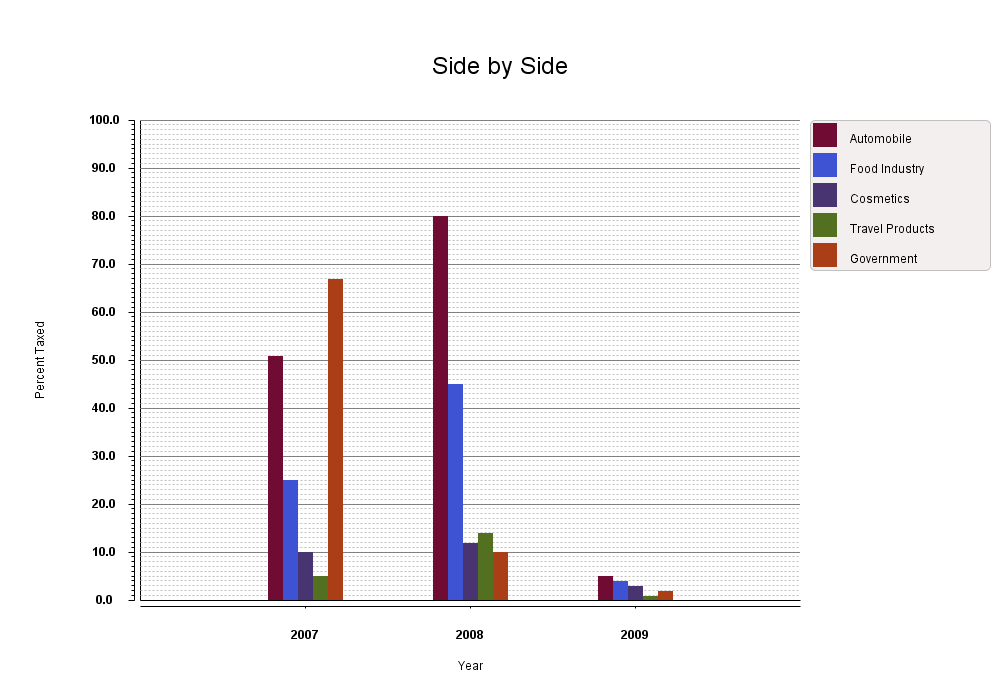
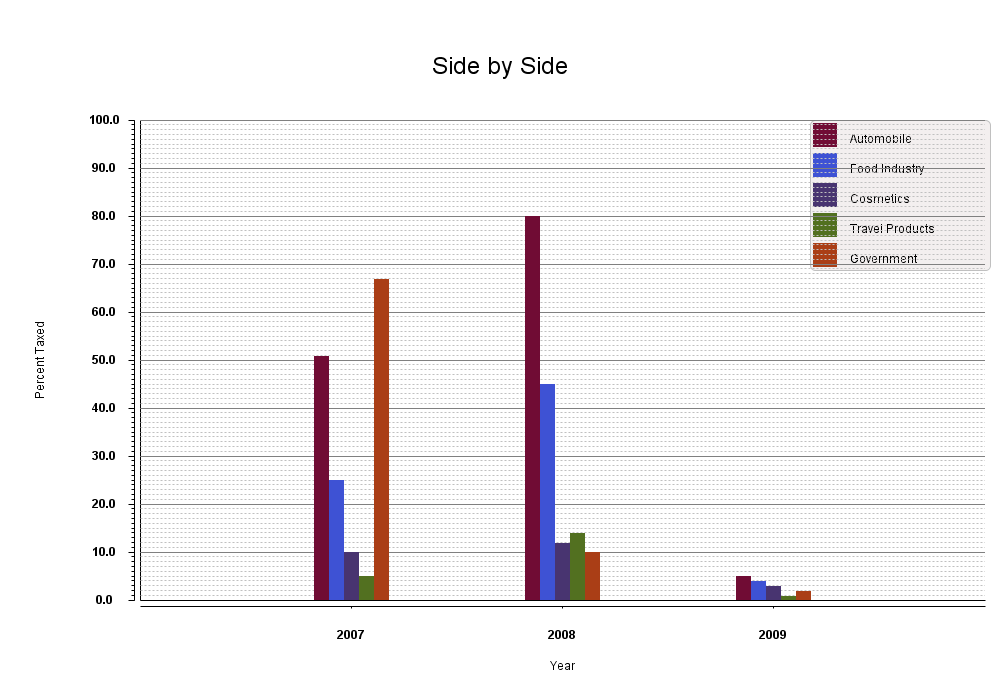
fix time point bug

diff --git a/src/main/java/com/bluewalrus/chart/draw/plotter/ChartPlotter.java b/src/main/java/com/bluewalrus/chart/draw/plotter/ChartPlotter.java
@@ -12,6 +12,7 @@ import com.bluewalrus.chart.XYFactor;
 import com.bluewalrus.chart.axis.XAxis;
 import com.bluewalrus.chart.axis.YAxis;
 import com.bluewalrus.chart.datapoint.DataPoint;
+import com.bluewalrus.chart.datapoint.ValueType;
 import com.bluewalrus.chart.draw.GridLine;
 import com.bluewalrus.chart.draw.point.UIPointXY;
 import com.bluewalrus.scaling.TimeSeriesAxisScaling;
@@ -99,7 +100,20 @@ public class ChartPlotter {
             DataPoint dataPoint, 
             XYChart chart, int pixBtnFirst2Pts) {
 		
-        int x = (int) ((dataPoint.x * xyFactor.xFactor) + xShift + xyFactor.xZeroOffsetInPixel);
+		
+		System.out.println("Pulling back (or pushing by this offset) = " + xyFactor.xZeroOffsetInPixel);
+		System.out.println("dataPoint.x * xyFactor.xFactor = " + (dataPoint.x * xyFactor.xFactor));
+		System.out.println("xShift = " + xShift);
+		System.out.println("");
+		
+		
+		int x = 0;
+		if (dataPoint.valueType == ValueType.X_TIME) {
+	        x = (int) ((dataPoint.xDate.getTime() * xyFactor.xFactor) + xShift + xyFactor.xZeroOffsetInPixel);
+		}else {
+	        x = (int) ((dataPoint.x * xyFactor.xFactor) + xShift + xyFactor.xZeroOffsetInPixel);
+		}
+		
         int y = (int) (yShift - (int) (dataPoint.y * xyFactor.yFactor) - xyFactor.yZeroOffsetInPixel);
 
         //hack TODO 
@@ -209,25 +223,31 @@ public class ChartPlotter {
         return new XYFactor(xFactor, yfactor);
 	}
 
-
-
-	
+	 /**
+	  * TODO this method is completely wrong
+	  * @param chart
+	  * @param yAxis
+	  * @return
+	  */
 	protected double getYZeroOffsetInPixel(XYChart chart, YAxis yAxis) {
 		
-//		if (yAxis.axisScaling instanceof TimeSeriesAxisScalingY) {
-//			throw new RuntimeException("TODO");
-//
-//			
-//		}else {
-	    	double yMax = yAxis.axisScaling.getMaxValue();
-	    	double yMin = yAxis.axisScaling.getMinValue();
-	    	
-	    	return (double) ((-yMin / (yMax - yMin)) * chart.heightChart);
-//		}
+    	double yMax = yAxis.axisScaling.getMaxValue();
+    	double yMin = yAxis.axisScaling.getMinValue();
+    	
+    	return (double) ((-yMin / (yMax - yMin)) * chart.heightChart);
 	}
 
 	
 	/**
+	 * I 
+	 * DO
+	 * NOT 
+	 * UNDERSTAND
+	 * THIS METHOD
+	 * 
+	 * TODO this method is completely wrong
+	 * 
+	 * Negative value : 
 	 * 
 	 * @param chart
 	 * @param xAxis
@@ -236,13 +256,19 @@ public class ChartPlotter {
 
 	protected double getXZeroOffsetInPixel(XYChart chart, XAxis xAxis) {
 		
+		double offset = -1;
+		
 		if (xAxis.axisScaling instanceof TimeSeriesAxisScaling) {
 	    	long xMax = ((TimeSeriesAxisScaling)xAxis.axisScaling).dateEnd.getTime();
 	    	long xMin = ((TimeSeriesAxisScaling)xAxis.axisScaling).dateStart.getTime();
 	    	
-	    	double diffX = xMax - xMin;
+	    	long diffX = xMax - xMin;
 	    	
-			return (double) ((-xMin / (double) diffX) * chart.widthChart);
+	    	double v = (-xMin / (double) diffX);
+	    	
+	    	System.out.println("v = " + v);
+	    	
+	    	offset =  (double) (v * chart.widthChart);
 	    	
 		}else {
 
@@ -250,8 +276,14 @@ public class ChartPlotter {
 	    	double xMin = xAxis.axisScaling.getMinValue();
 	    	
 	    	double diffX = xMax - xMin;
-			return (double) ((-xMin / (double) diffX) * chart.widthChart);
+	    	
+	    	double v = (double) ((-xMin / (double) diffX) * chart.widthChart);
+	    	
+	    	offset =   v;
 		}
+		System.out.println("offset = " + offset);
+		
+		return offset;
 	}
     
 }

diff --git a/src/test/java/com/bluewalrus/main/test/timeseries/TestDataTimeSeries_MonthDay.java b/src/test/java/com/bluewalrus/main/test/timeseries/TestDataTimeSeries_MonthDay.java
@@ -33,7 +33,7 @@ public class TestDataTimeSeries_MonthDay extends ChartTester {
 		
 		Date startDate = df.parse("2001-01-03 10-00-00"); //3rd jan
 //		Date endDate = df.parse("2001-03-12 05-33-00"); //12th march
-		Date endDate = df.parse("2001-09-7 05-33-00"); //12th march
+		Date endDate = df.parse("2001-04-7 05-33-00"); //12th march
 		
 		
 		String time = "2001-03-01 00-33-00";                              
@@ -42,16 +42,16 @@ public class TestDataTimeSeries_MonthDay extends ChartTester {
 		time = "2001-04-01 00-33-00";                                                
 		Date dt5 = df.parse(time);                                      
 
-		time = "2001-07-20 05-33-00";                              
-		Date dt6 = df.parse(time);                                      
+//		time = "2001-07-20 05-33-00";                              
+//		Date dt6 = df.parse(time);                                      
 		
 		
 		ArrayList<DataPoint> values = new ArrayList<DataPoint>();
 		values.add(new DataPoint(dt4, 5));
 		values.add(new DataPoint(dt5, 8));
-		values.add(new DataPoint(dt6, 14));
+//		values.add(new DataPoint(dt6, 14));
 
-		XYDataSeries series = new XYDataSeries(new UIPointSquare(Color.BLUE), new GridLine(Color.BLUE), "Something Blue");
+		XYDataSeries series = new XYDataSeries(new UIPointSquare(Color.BLUE,4), new GridLine(Color.BLUE), "Something Blue");
 		series.dataPoints = values;
 
 		SimpleDateFormat monthFormat = new SimpleDateFormat("MMM");
@@ -76,18 +76,14 @@ public class TestDataTimeSeries_MonthDay extends ChartTester {
 						timeInt2, 
 						null), "Time Series 1"); 
 
-		XYChart lineChart = new XYChart(values, "Time Series 1", "X", "Y"); //yAxis, xAxis);
+		XYChart lineChart = new XYChart(series, "Time Series 1", "X", "Y"); //yAxis, xAxis);
 		lineChart.xAxis = xAxis;
-		lineChart.setTitle("Month Day Time Series (3rd Jan to 12th March)");
-		
+		lineChart.setTitle("Month Day Time Series (3rd Jan - 12th March)");
 		
 		timeInt1.styling.intervalFont =  new Font("Blackadder ITC", Font.BOLD, 16);
 		timeInt2.styling.intervalFont =  new Font("Blackadder ITC", Font.PLAIN, 12);
 		
 		timeInt1.styling.graphFill =  new GridFill(Color.WHITE, new Color(224,235,235), false);
-		
-		
-		
 
 		return lineChart;
 	}

diff --git a/src/main/java/com/bluewalrus/chart/XYChart.java b/src/main/java/com/bluewalrus/chart/XYChart.java
@@ -476,7 +476,6 @@ public class XYChart extends Chart implements Legendable, MouseMotionListener {
 	 * @param title
 	 */
 	private void initialiseScaling(ArrayList<XYDataSeries> xySeriesList) {
-
 		XAxis xAxis = null;
 		YAxis yAxis = null;
 		YAxis yAxis2 = null;
@@ -503,7 +502,6 @@ public class XYChart extends Chart implements Legendable, MouseMotionListener {
 		 * Initialise Y2
 		 */
 		if (isYAxis2) {
-			
 			yAxis2 = initialiseScalingY_numerical(this.dataY2);
 			yAxis2.axisScaling.setOrientation(Orientation.Y2);
 		}
@@ -511,8 +509,6 @@ public class XYChart extends Chart implements Legendable, MouseMotionListener {
 		this.xAxis = xAxis;
 		this.yAxis = yAxis;
 		this.yAxis2 = yAxis2;
-		
-		
 	}
 
 
@@ -768,11 +764,14 @@ public class XYChart extends Chart implements Legendable, MouseMotionListener {
 		ArrayList<Category> categories = new ArrayList<Category>();
 
 		//only one series. no need for legend TODO put this logic back in!!
-//		if (data.size() == 1) {
-//			return;
-//		}
+		if (data.size() == 1) {
+			return;
+		}
 		
-//		if (data.)
+		this.rightOffset = 200; //TODO why do have to put in offset here??
+		
+		
+		
 
 		for (XYDataSeries series : data) {
 
@@ -784,8 +783,7 @@ public class XYChart extends Chart implements Legendable, MouseMotionListener {
 			} 
 			else if(series.type == XYDataSeriesType.MULTI_BAR){
 				
-				this.rightOffset = 200; //TODO why do have to put in offset here??
-				
+
 				
 				DataPointMultiBar mb = (DataPointMultiBar)series.dataPoints.get(0);
 		        ArrayList<DataPointBar> dps = mb.bars;
@@ -802,10 +800,7 @@ public class XYChart extends Chart implements Legendable, MouseMotionListener {
 						series.line);
 				categories.add(category);
 			}
-			
-			
 		}
-		
 		
 		if (isYAxis2) {
 	        categories = new ArrayList<Category>();

diff --git a/src/test/java/com/bluewalrus/main/test/xy/TestDataXY_CandlePlot.java b/src/test/java/com/bluewalrus/main/test/xy/TestDataXY_CandlePlot.java
@@ -21,22 +21,13 @@ public class TestDataXY_CandlePlot extends ChartTester {
 		
 		ChartTester t = new TestDataXY_CandlePlot();
 		t.testChart(t.getChart());
-		
-//		getChart();
 	}
 
-	
-
-
-
 	public XYChart getChart() {
-
-		// TEST_DATA_START
 
 		ArrayList<XYDataSeries> xySeriesList = new ArrayList<XYDataSeries>();
 
 		ArrayList<DataPoint> values = new ArrayList<DataPoint>();
-//		values.add(new DataPointBoxPlot(5, 53, 15, 26, 37, 49, 70));
 
 		values.add(new DataPointCandleStick(10, 80, 70, 60, 50, true));
 		values.add(new DataPointCandleStick(20, 80, 75, 50, 15, true));
@@ -49,13 +40,6 @@ public class TestDataXY_CandlePlot extends ChartTester {
 		values.add(new DataPointCandleStick(90, 80, 75, 50, 25, true));
 		values.add(new DataPointCandleStick(100, 80, 70, 60, 50, true));
 		values.add(new DataPointCandleStick(110, 80, 75, 50, 15, true));
-		
-		
-//		values.add(new DataPointCandleStick(40, 54, 40, 46, 73, true));
-//		values.add(new DataPointCandleStick(50, 30, 34, 39, 72, false));
-//		values.add(new DataPointCandleStick(60, 45, 36, 45, 58, true));
-//		values.add(new DataPointCandleStick(70, 47, 41, 45, 49, false));
-//		values.add(new DataPointCandleStick(80, 70, 68, 64, 50, false));
 
 		XYDataSeries series = new XYDataSeries(values, new UIPointCandleStick(
 				new Color(181, 197, 207, 100)), null, "1994");
@@ -68,12 +52,10 @@ public class TestDataXY_CandlePlot extends ChartTester {
 		XYChart chart = new XYChart(xySeriesList, yAxis, xAxis);
 
 		chart.setSize(1000, 500);
-		chart.rightOffset = 200;
 
 		chart.setTitleFont(new Font("Ariel", Font.PLAIN, 24));
-		chart.setTitle("Box Plot");
+		chart.setTitle("Candle Plot");
 
 		return chart;
 	}
-
 }

diff --git a/src/test/java/com/bluewalrus/main/test/multibar/TestDataBar_MultiBar_SideBySide.java b/src/test/java/com/bluewalrus/main/test/multibar/TestDataBar_MultiBar_SideBySide.java
@@ -69,7 +69,7 @@ public class TestDataBar_MultiBar_SideBySide extends ChartTester {
         XYChart chart = new XYChart("Side by Side", "Year", "Percent Taxed", xySeriesList);
         
         
-        chart.rightOffset = 200;
+//        chart.rightOffset = 200;
         chart.yAxis.setMinValue(0);
         chart.yAxis.setMaxValue(100);
         

diff --git a/src/test/java/com/bluewalrus/main/test/multibar/TestDataBar_MultiBar_Stacked.java b/src/test/java/com/bluewalrus/main/test/multibar/TestDataBar_MultiBar_Stacked.java
@@ -69,7 +69,7 @@ public class TestDataBar_MultiBar_Stacked extends ChartTester {
         xySeriesList.add(series);
         
         XYChart chart = new XYChart("Stacked", "Year", "y", xySeriesList);
-        chart.rightOffset = 200;
+//        chart.rightOffset = 200;
         
         return chart;
     }

diff --git a/src/test/java/com/bluewalrus/main/test/xy/TestDataXY_Boxplot.java b/src/test/java/com/bluewalrus/main/test/xy/TestDataXY_Boxplot.java
@@ -49,7 +49,6 @@ public class TestDataXY_Boxplot extends ChartTester {
 		XYChart chart = new XYChart(xySeriesList, yAxis, xAxis);
 
 		chart.setSize(1000, 500);
-		chart.rightOffset = 200;
 
 		chart.setTitleFont(new Font("Ariel", Font.PLAIN, 24));
 		chart.setTitle("Box Plot");

diff --git a/src/main/java/com/bluewalrus/chart/ChartUtils.java b/src/main/java/com/bluewalrus/chart/ChartUtils.java
@@ -331,7 +331,7 @@ public class ChartUtils {
 	}
 
 	/**
-	 * A DataPointBar, should have all its name set to a value, or no values set to name.
+	 * A DataPointBar, should have all its names set to a value, or no values set to name.
 	 * 
 	 * @param bars
 	 */

diff --git a/src/main/java/com/bluewalrus/chart/Chart.java b/src/main/java/com/bluewalrus/chart/Chart.java
@@ -21,7 +21,7 @@ import javax.swing.JPanel;
  * 
  * Additionally a Chart is composed of a <code>Title</code> and optionally a <code>Legend</code>
  * 
- * 
+ *  
  * @author oliver
  */
 public abstract class Chart extends JPanel {

diff --git a/src/main/java/com/bluewalrus/chart/datapoint/DataPoint.java b/src/main/java/com/bluewalrus/chart/datapoint/DataPoint.java
@@ -43,6 +43,7 @@ public class DataPoint implements Serializable{
     }
     
     public DataPoint(Date date, double y) {
+		valueType = ValueType.X_TIME;
         this.xDate = date;
         this.y = y;
     }

diff --git a/src/main/java/com/bluewalrus/chart/datapoint/ValueType.java b/src/main/java/com/bluewalrus/chart/datapoint/ValueType.java
@@ -2,5 +2,5 @@ package com.bluewalrus.chart.datapoint;
 
 public enum ValueType {
 
-	NUMERICAL, X_ENUMARABLE
+	NUMERICAL, X_ENUMARABLE, X_TIME
 }
